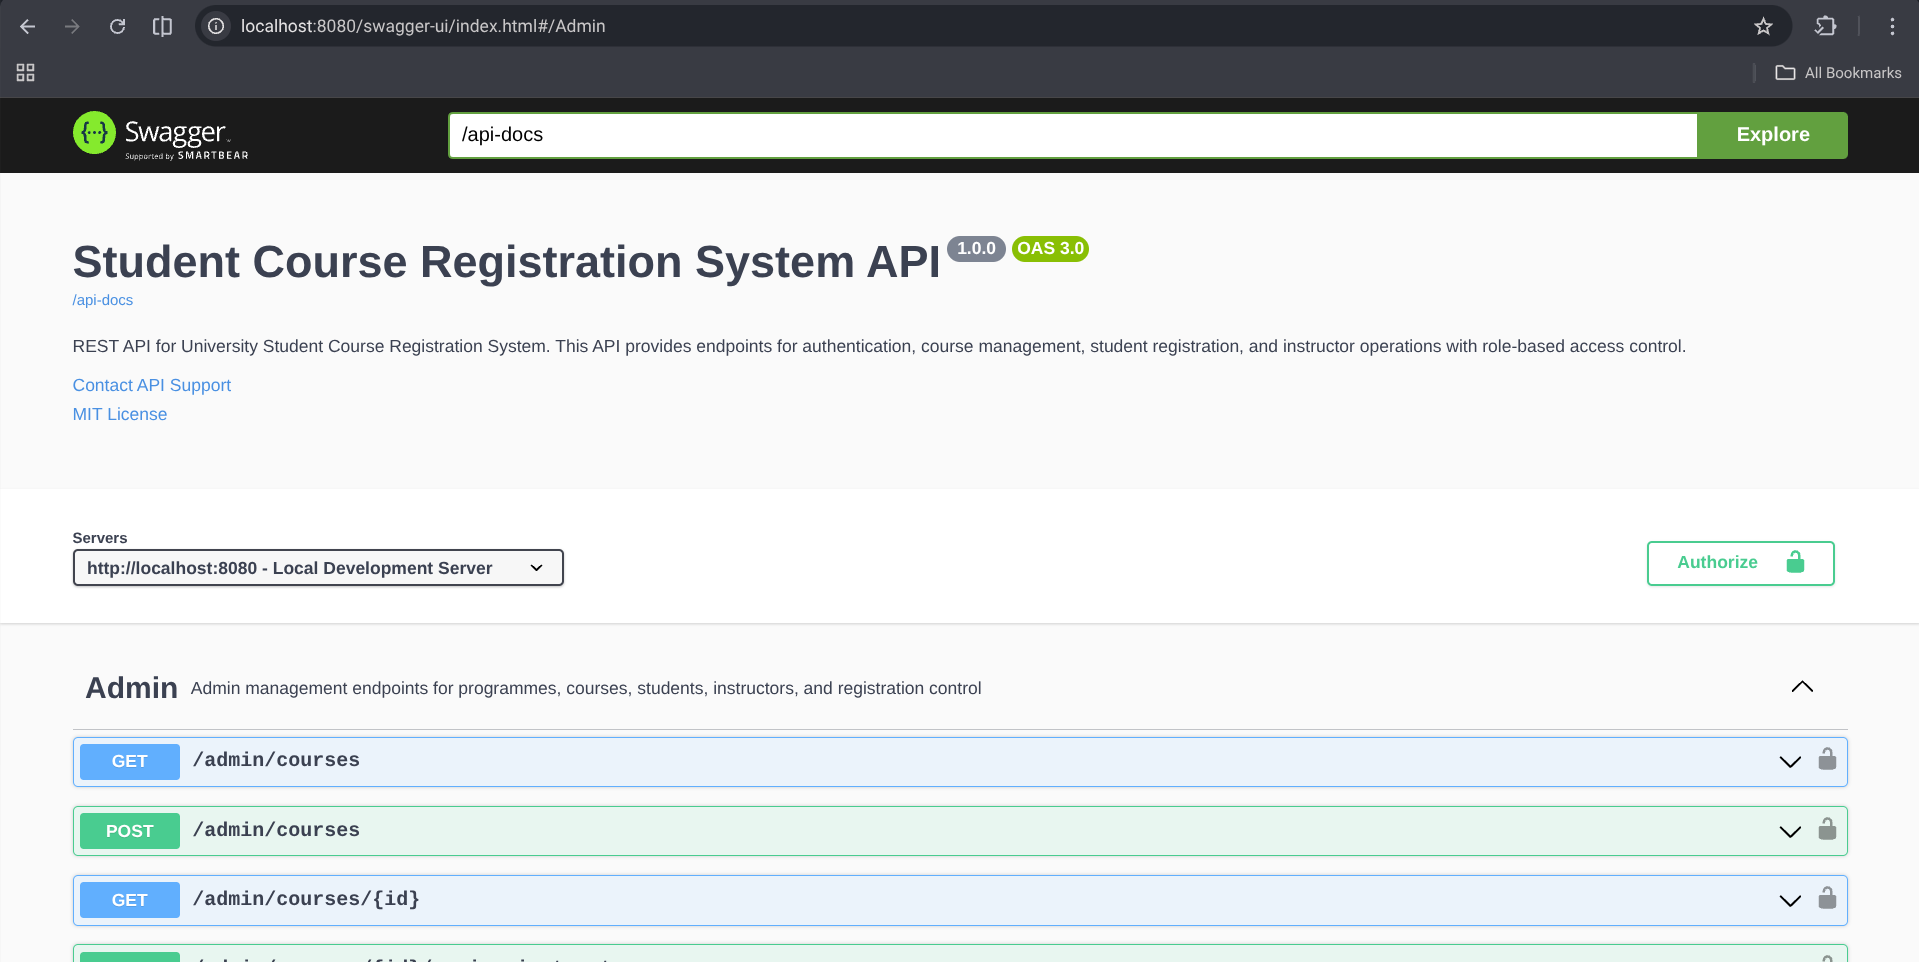
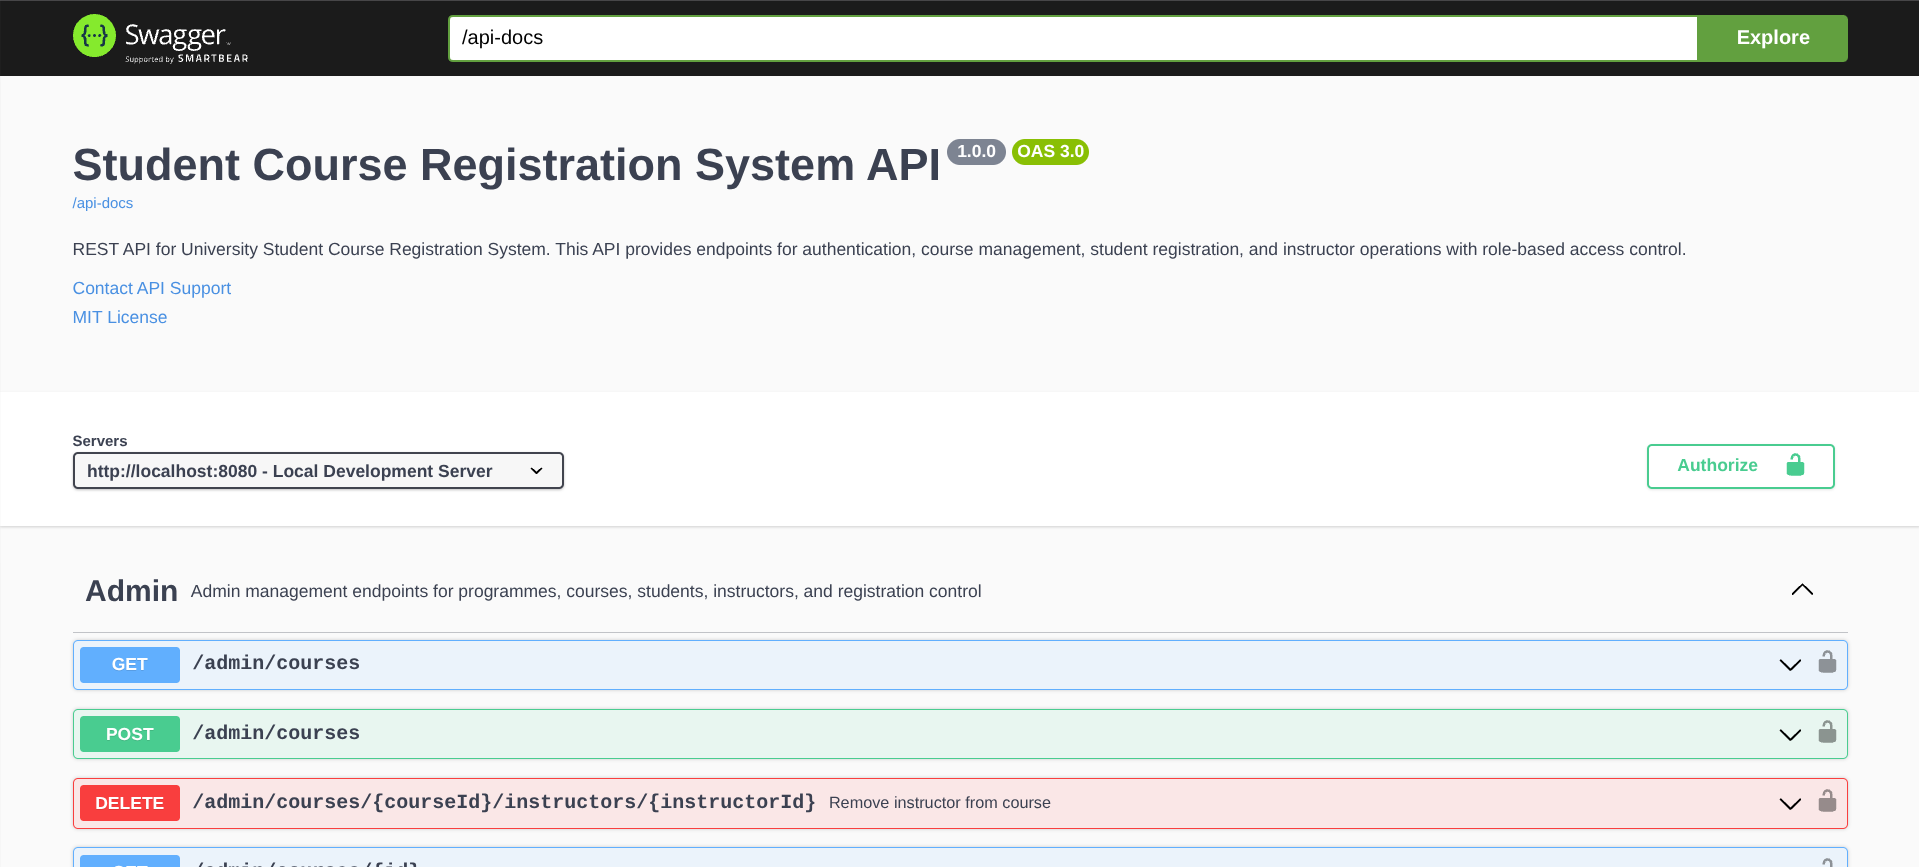
add delete endpoints

diff --git a/src/main/java/com/example/registration/service/impl/AdminServiceImpl.java b/src/main/java/com/example/registration/service/impl/AdminServiceImpl.java
@@ -80,6 +80,24 @@ public class AdminServiceImpl implements AdminService {
     }
     
     @Override
+    public void deleteProgramme(Long id) {
+        Programme programme = programmeRepository.findById(id)
+                .orElseThrow(() -> new ResourceNotFoundException("Programme", "id", id));
+        
+        // Check if programme has courses
+        if (!courseRepository.findByProgramme(programme).isEmpty()) {
+            throw new IllegalStateException("Cannot delete programme with associated courses");
+        }
+        
+        // Check if programme has students
+        if (!studentRepository.findByProgramme(programme).isEmpty()) {
+            throw new IllegalStateException("Cannot delete programme with enrolled students");
+        }
+        
+        programmeRepository.delete(programme);
+    }
+    
+    @Override
     public CourseDto createCourse(CourseDto dto) {
         if (courseRepository.existsByCourseCode(dto.getCourseCode())) {
             throw new DuplicateResourceException("Course with code " + dto.getCourseCode() + " already exists");
@@ -143,6 +161,22 @@ public class AdminServiceImpl implements AdminService {
     }
     
     @Override
+    public void deleteCourse(Long id) {
+        Course course = courseRepository.findById(id)
+                .orElseThrow(() -> new ResourceNotFoundException("Course", "id", id));
+        
+        // Check if course has registrations
+        if (!registrationRepository.findByCourse(course).isEmpty()) {
+            throw new IllegalStateException("Cannot delete course with student registrations");
+        }
+        
+        // Delete course assignments first
+        assignmentRepository.deleteByCourse(course);
+        
+        courseRepository.delete(course);
+    }
+    
+    @Override
     public String assignInstructorToCourse(Long courseId, AssignInstructorDto dto) {
         Course course = courseRepository.findById(courseId)
                 .orElseThrow(() -> new ResourceNotFoundException("Course", "id", courseId));
@@ -166,6 +200,20 @@ public class AdminServiceImpl implements AdminService {
         assignmentRepository.save(assignment);
         
         return "Instructor successfully assigned to course";
+    }
+    
+    @Override
+    public void removeInstructorFromCourse(Long courseId, Long instructorId) {
+        Course course = courseRepository.findById(courseId)
+                .orElseThrow(() -> new ResourceNotFoundException("Course", "id", courseId));
+        
+        User instructor = userRepository.findById(instructorId)
+                .orElseThrow(() -> new ResourceNotFoundException("Instructor", "id", instructorId));
+        
+        CourseAssignment assignment = assignmentRepository.findByCourseAndInstructor(course, instructor)
+                .orElseThrow(() -> new ResourceNotFoundException("Course assignment not found"));
+        
+        assignmentRepository.delete(assignment);
     }
     
     @Override
@@ -262,6 +310,22 @@ public class AdminServiceImpl implements AdminService {
     }
     
     @Override
+    public void deleteStudent(Long id) {
+        Student student = studentRepository.findById(id)
+                .orElseThrow(() -> new ResourceNotFoundException("Student", "id", id));
+        
+        // Delete course registrations first
+        registrationRepository.deleteByStudent(student);
+        
+        // Delete student
+        User user = student.getUser();
+        studentRepository.delete(student);
+        
+        // Delete associated user account
+        userRepository.delete(user);
+    }
+    
+    @Override
     public InstructorDto createInstructor(CreateInstructorDto dto) {
         if (userRepository.existsByUsername(dto.getUsername())) {
             throw new DuplicateResourceException("Username already exists");
@@ -337,6 +401,25 @@ public class AdminServiceImpl implements AdminService {
         Instructor instructor = instructorRepository.findById(id)
                 .orElseThrow(() -> new ResourceNotFoundException("Instructor", "id", id));
         return mapToInstructorDto(instructor);
+    }
+    
+    @Override
+    public void deleteInstructor(Long id) {
+        Instructor instructor = instructorRepository.findById(id)
+                .orElseThrow(() -> new ResourceNotFoundException("Instructor", "id", id));
+        
+        User user = instructor.getUser();
+        
+        // Check if instructor has course assignments
+        if (assignmentRepository.existsByInstructor(user)) {
+            throw new IllegalStateException("Cannot delete instructor with assigned courses. Remove course assignments first.");
+        }
+        
+        // Delete instructor
+        instructorRepository.delete(instructor);
+        
+        // Delete associated user account
+        userRepository.delete(user);
     }
     
     @Override

diff --git a/src/main/java/com/example/registration/controller/AdminController.java b/src/main/java/com/example/registration/controller/AdminController.java
@@ -49,6 +49,13 @@ public class AdminController {
         return ResponseEntity.ok(programme);
     }
     
+    @DeleteMapping("/programmes/{id}")
+    @Operation(summary = "Delete programme", description = "Delete a programme by ID (only if no courses or students are associated)")
+    public ResponseEntity<String> deleteProgramme(@PathVariable Long id) {
+        adminService.deleteProgramme(id);
+        return ResponseEntity.ok("Programme deleted successfully");
+    }
+    
     // Course Management
     @PostMapping("/courses")
     public ResponseEntity<CourseDto> createCourse(@Valid @RequestBody CourseDto dto) {
@@ -77,6 +84,13 @@ public class AdminController {
         return ResponseEntity.ok(course);
     }
     
+    @DeleteMapping("/courses/{id}")
+    @Operation(summary = "Delete course", description = "Delete a course by ID (only if no student registrations exist)")
+    public ResponseEntity<String> deleteCourse(@PathVariable Long id) {
+        adminService.deleteCourse(id);
+        return ResponseEntity.ok("Course deleted successfully");
+    }
+    
     // Course Assignment
     @PostMapping("/courses/{id}/assign-instructor")
     public ResponseEntity<String> assignInstructorToCourse(
@@ -84,6 +98,15 @@ public class AdminController {
             @Valid @RequestBody AssignInstructorDto dto) {
         String message = adminService.assignInstructorToCourse(id, dto);
         return ResponseEntity.ok(message);
+    }
+    
+    @DeleteMapping("/courses/{courseId}/instructors/{instructorId}")
+    @Operation(summary = "Remove instructor from course", description = "Remove an instructor assignment from a course")
+    public ResponseEntity<String> removeInstructorFromCourse(
+            @PathVariable Long courseId,
+            @PathVariable Long instructorId) {
+        adminService.removeInstructorFromCourse(courseId, instructorId);
+        return ResponseEntity.ok("Instructor removed from course successfully");
     }
     
     // Student Management
@@ -108,6 +131,13 @@ public class AdminController {
     public ResponseEntity<List<StudentDto>> getAllStudents() {
         List<StudentDto> students = adminService.getAllStudents();
         return ResponseEntity.ok(students);
+    }
+    
+    @DeleteMapping("/students/{id}")
+    @Operation(summary = "Delete student", description = "Delete a student account and all associated registrations")
+    public ResponseEntity<String> deleteStudent(@PathVariable Long id) {
+        adminService.deleteStudent(id);
+        return ResponseEntity.ok("Student deleted successfully");
     }
     
     // Instructor Management
@@ -139,6 +169,13 @@ public class AdminController {
     public ResponseEntity<InstructorDto> getInstructorById(@PathVariable Long id) {
         InstructorDto instructor = adminService.getInstructorById(id);
         return ResponseEntity.ok(instructor);
+    }
+    
+    @DeleteMapping("/instructors/{id}")
+    @Operation(summary = "Delete instructor", description = "Delete an instructor account (only if no course assignments exist)")
+    public ResponseEntity<String> deleteInstructor(@PathVariable Long id) {
+        adminService.deleteInstructor(id);
+        return ResponseEntity.ok("Instructor deleted successfully");
     }
     
     // Registration Management

diff --git a/src/main/java/com/example/registration/service/AdminService.java b/src/main/java/com/example/registration/service/AdminService.java
@@ -10,26 +10,31 @@ public interface AdminService {
     // Programme Management
     ProgrammeDto createProgramme(ProgrammeDto programmeDto);
     ProgrammeDto updateProgramme(Long id, ProgrammeDto programmeDto);
+    void deleteProgramme(Long id);
     List<ProgrammeDto> getAllProgrammes();
     ProgrammeDto getProgrammeById(Long id);
     
     // Course Management
     CourseDto createCourse(CourseDto courseDto);
     CourseDto updateCourse(Long id, CourseDto courseDto);
+    void deleteCourse(Long id);
     List<CourseDto> getAllCourses();
     CourseDto getCourseById(Long id);
     
     // Course Assignment
     String assignInstructorToCourse(Long courseId, AssignInstructorDto dto);
+    void removeInstructorFromCourse(Long courseId, Long instructorId);
     
     // Student Management
     StudentDto createStudent(CreateStudentDto dto);
     StudentDto updateStudent(Long id, CreateStudentDto dto);
+    void deleteStudent(Long id);
     List<StudentDto> getAllStudents();
     
     // Instructor Management
     InstructorDto createInstructor(CreateInstructorDto dto);
     InstructorDto updateInstructor(Long id, CreateInstructorDto dto);
+    void deleteInstructor(Long id);
     List<InstructorDto> getAllInstructors();
     InstructorDto getInstructorById(Long id);
     

diff --git a/src/main/java/com/example/registration/repository/CourseAssignmentRepository.java b/src/main/java/com/example/registration/repository/CourseAssignmentRepository.java
@@ -22,6 +22,10 @@ public interface CourseAssignmentRepository extends JpaRepository<CourseAssignme
     
     boolean existsByCourseAndInstructor(Course course, User instructor);
     
+    boolean existsByInstructor(User instructor);
+    
+    void deleteByCourse(Course course);
+    
     List<CourseAssignment> findByActiveTrue();
     
     List<CourseAssignment> findByInstructorIdAndActiveTrue(Long instructorId);

diff --git a/src/main/java/com/example/registration/repository/CourseRegistrationRepository.java b/src/main/java/com/example/registration/repository/CourseRegistrationRepository.java
@@ -27,6 +27,8 @@ public interface CourseRegistrationRepository extends JpaRepository<CourseRegist
     
     boolean existsByStudentAndCourse(Student student, Course course);
     
+    void deleteByStudent(Student student);
+    
     List<CourseRegistration> findByStudentAndSemesterAndAcademicYear(
         Student student, 
         Semester semester, 
